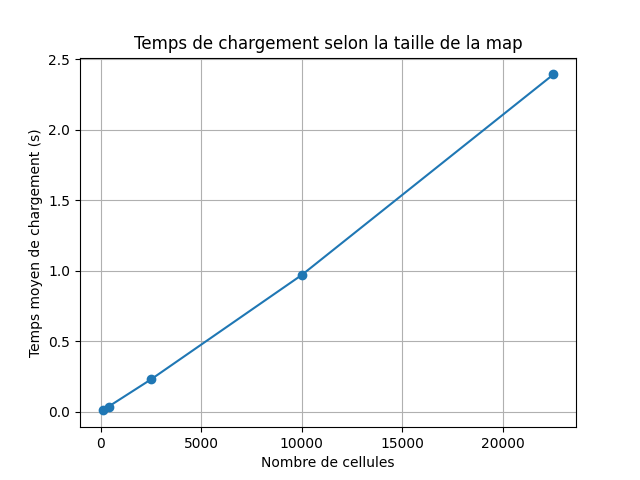
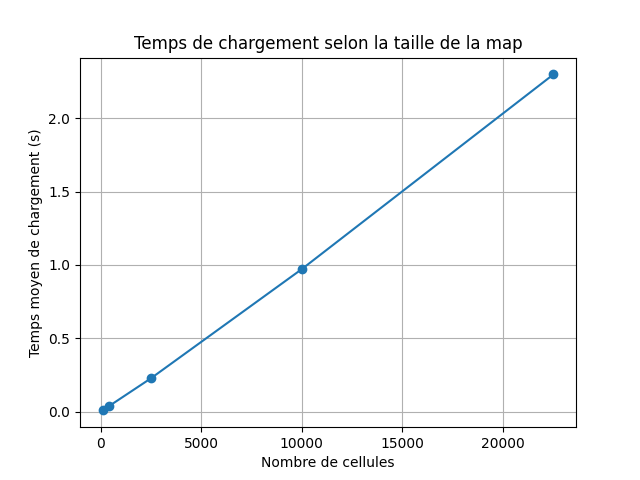
Ajout benchmark on_update, nouvelle map et mise à jour du rapport

diff --git a/benchmark_update.py b/benchmark_update.py
@@ -1,0 +1,72 @@
+import timeit
+import matplotlib.pyplot as plt
+import arcade
+
+from map import map_from_string
+from game_view import GameView
+
+window=arcade.Window(1,1,"Benchmark", visible=False)
+MAP_SIZE=100
+def create_map(slime_count: int)->str :
+    rows= []
+    current_slimes=0
+    for y in range(MAP_SIZE):
+        row = []
+        for x in range(MAP_SIZE):
+            # les bords buissons :
+            if (
+                x == 0
+                or y == 0
+                or x == MAP_SIZE - 1
+                or y == MAP_SIZE - 1
+            ):
+                row.append("x")
+            # le joueur :
+            elif x == 1 and y == 1:
+                row.append("P")
+            #les slimes:
+            elif current_slimes<slime_count:
+                row.append("m")
+                current_slimes+=1
+            # de l'herbe
+            else:
+                row.append(" ")
+
+        rows.append("".join(row))
+    return (
+    f"width: {MAP_SIZE}\n"
+    f"height: {MAP_SIZE}\n"
+    "---\n"
+    + "\n".join(rows)
+    + "\n---\n"
+    )
+
+def benchmark(view:GameView)->None:
+    view.on_update(1/60)
+
+SLIME_COUNTS=[1,5,10,20,50,100]
+times=[]
+NUMBER=100
+
+for slime_count in SLIME_COUNTS:
+    print(f"Benchmark avec {slime_count} slimes")
+    text=create_map(slime_count)
+    game_map=map_from_string(text)
+
+    view = GameView(game_map)
+    total_time=timeit.timeit(
+        lambda :benchmark(view),
+        number=NUMBER
+    )
+    average_time=total_time/NUMBER
+    times.append(average_time)
+    print(
+        f"{slime_count} slimes"
+        f"-> {average_time:.7f} s"
+    )
+
+plt.plot(SLIME_COUNTS, times, marker='o')
+plt.xlabel("Nombre de slimes")
+plt.ylabel("Temps moyen de on_update en (s)")
+plt.title("Temps de on_update en fct du nbr de slimes")
+plt.show()

diff --git a/benchmark_loading.py b/benchmark_loading.py
@@ -44,23 +44,26 @@ times = []
 
 NUMBER = 10
 
+def benchmark(text:str) -> None:
+    #on lit la map avec map_from_string
+    game_map = map_from_string(text)
+    #on instancie gameview avec
+    GameView(game_map)
+
 for size in sizes:
     print(f"Benchmark map {size}x{size}")
     text = create_map(size)
-    def benchmark() -> None:
-        #on lit la map avec map_from_string
-        game_map = map_from_string(text)
-        #on instancie gameview avec
-        GameView(game_map)
-    #on utilise timeit et benchmark pour connaître le temps total
+    #on utilise timeit et benchmark pour connaître le temps total, number est explicitement
+    #passé comme argument comme on a vu en cours.
     total_time = timeit.timeit(
-        benchmark,
-        number=NUMBER,
-    )
+        lambda:benchmark(text),
+        number=NUMBER)
+
     average_time = total_time / NUMBER
     cell_count = size * size
     cells.append(cell_count)
     times.append(average_time)
+    #les print nous permettent de voir de cette façon le temps pour chaque taille
     print(
         f"{cell_count} cellules "
         f"-> {average_time:.6f} s"
@@ -74,7 +77,5 @@ plt.ylabel("Temps moyen de chargement (s)")
 plt.title("Temps de chargement selon la taille de la map")
 
 plt.grid(True)
-
-plt.savefig("loading_benchmark.png")
 
 plt.show()

diff --git a/design.md b/design.md
@@ -85,4 +85,11 @@ On voit donc bien que c'est en accord avec notre analyse théorique. Pourquoi ? 
 # analyse de on_update():
 
 Le facteur qu'on a choisi pour cette opération s'est naturellment porté sur le nombre de slimes, car ce sont eux qui vont appeler dijkstra pour calculer leur trajectoire. On va se contenter du cas le plus couteux : recacul de la trajectoire.
-Si on appelle m le nombre de slimes, alors on sait que `on_update()` de `GameView` appelle `self.enemies.update(context)` de EnemySystem, qui parcourt tous les slimes avec une boucle `for`, et met à jour leur logique, et c'est cette mise à jour logique qui nous intéresse. Mais déjà jusqu'ici, on a O(m) de slimes qui sont mis à jour à chaque frame ! Ensuite, dans le pire des cas, on devra recalculer leur chemin à tous. On recalcule le chemin d'un slime vers sa nouvelle destination avec dijkstra grace à `recompute_path(navmesh)` qui elle même appelle `shortest_path`, une opération dépendant elle même de la longueur du graphe du navmesh car elle appelle `nearest_node` appelant un `min` sur tous les neouds du graphe. Avec un graphe (comme dans ce qui est donné dans le site du projet) G=(V,E), notons V le cardinal de V, comme les arêtes sont construites à partir de V, leur nombre est proportionnel à celui des noeuds. Sachant que la complexité classique de dijkstra pour un tel graphe est O((V+E)log(V)), il s'en suit en remplaçant qu'elle est de l'ordre de O(2Vlog(V)), et donc de l'ordre de O(Vlog(V)). Or, on sait que V sera nécessairement inférieur à la taille de la map*9, supposons donc dans le pire des cas qu'il soit de l'ordre de O(n). On retrouve donc en remplaçant à nouveau : O(nlog(n)). Le coût total en considérant donc le nombre de slime s'élève finalement à O((m * n) log(n)). On voit que c'est tout de même beaucoup, d'où l'ajout de `DIRECT_CHASE_DISTANCE` pour poursuivre directement le joueur, sans repasser par navmesh si on en est assez proche !
+Si on appelle m le nombre de slimes, alors on sait que `on_update()` de `GameView` appelle `self.enemies.update(context)` de EnemySystem, qui parcourt tous les slimes avec une boucle `for`, et met à jour leur logique, et c'est cette mise à jour logique qui nous intéresse. Mais déjà jusqu'ici, on a O(m) de slimes qui sont mis à jour à chaque frame ! Ensuite, dans le pire des cas, on devra recalculer leur chemin à tous. On recalcule le chemin d'un slime vers sa nouvelle destination avec dijkstra grace à `recompute_path(navmesh)` qui elle même appelle `shortest_path`, une opération dépendant elle même de la longueur du graphe du navmesh car elle appelle `nearest_node` appelant un `min` sur tous les neouds du graphe. Avec un graphe (comme dans ce qui est donné dans le site du projet) G=(V,E), notons V le cardinal de V, comme les arêtes sont construites à partir de V, leur nombre est proportionnel à celui des noeuds. Sachant que la complexité classique de dijkstra pour un tel graphe est O((V+E)log(V)), il s'en suit en remplaçant qu'elle est de l'ordre de O(2Vlog(V)), et donc de l'ordre de O(Vlog(V)). Or, on sait que V sera nécessairement inférieur à la taille de la map*9, supposons donc dans le pire des cas qu'il soit de l'ordre de O(n). On retrouve donc en remplaçant à nouveau : O(nlog(n)). Le coût total en considérant donc le nombre de slime s'élève finalement à O(m * (nlog(n))). On voit que c'est tout de même beaucoup, d'où l'ajout de `DIRECT_CHASE_DISTANCE` pour poursuivre directement le joueur, sans repasser par navmesh si on en est assez proche !
+
+Remarque très important : on a effectivement analysé le pire de cas, mais avec les slimes qui sont des entités très complexes de notre jeu, on a obtenu des résultats plutôt différents, car la réalité n'est pas forcément toujours 'pire des cas'. Honnêtement, on n'a pas trop su comment générer ce pire des cas vu la complexité des slimes... le fichier du benchmark deviendrait trop chargé. Mais svp gardez en tête que les slimes ne sont pas obligés de recalculer leur chemin avec dijkstra à chaque frame, notre analyse n'est donc pas nécessairement fausse (en tout cas, je l'espère...).
+
+
+![Benchmark on_update](update_benchmark.png)
+
+en théorie, puisque la taille de la map reste constante et que c'est le nombre de slimes qui changent, d'après la complexité analysée plus haut, on aurait du avoir un graphe linéaire plus ou moins... Mais comme expliqué dans la remarqye, ce n'est pas le cas car le pire des cas n'est pas forcément atteint à chaque frame.
